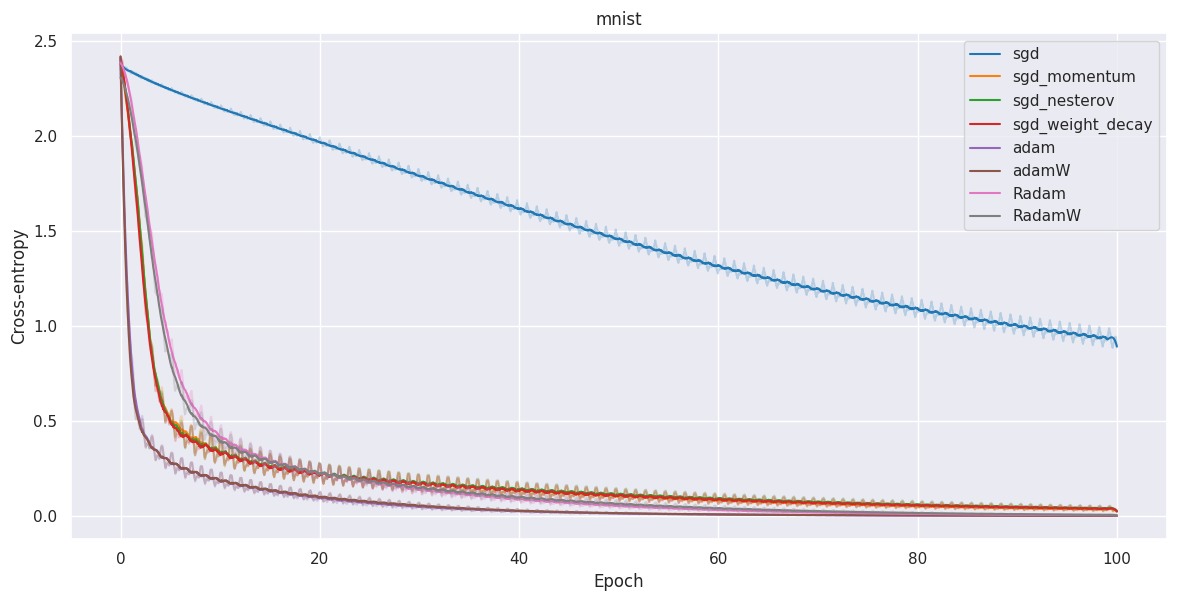
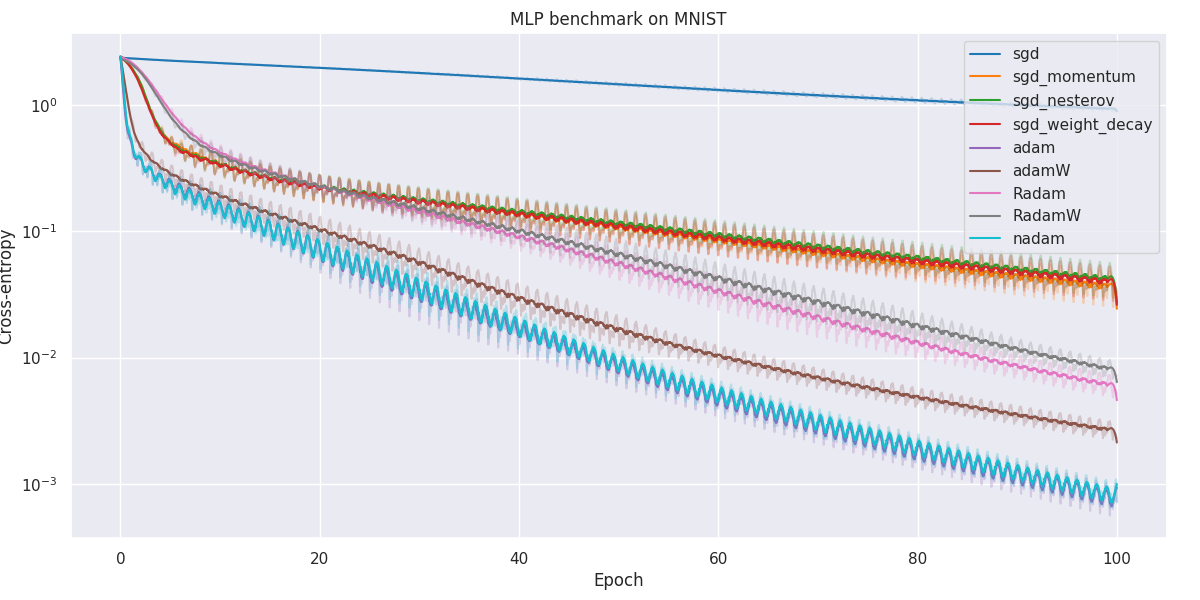
added nadam

diff --git a/misc.py b/misc.py
@@ -10,6 +10,8 @@ import torchvision
 from torch.utils import data
 from torchvision import transforms
 
+import optimizers
+
 
 def load_cifar(num_train=8192, num_val=512):
 	"""
@@ -42,6 +44,18 @@ def load_mnist(filename='data/mnist.npz', num_train=4096, num_val=256):
 	val_dataset = Dataset(x_valid, y_valid)
 
 	return train_dataset, val_dataset
+
+
+def task_to_optimizer(task:str) -> torch.optim.Optimizer:
+	"""
+	Takes a task as string and returns its respective optimizer class.
+	"""
+	if 'sgd' in task.lower():
+		return getattr(optimizers, 'SGD')
+	if 'adam' in task.lower():
+		return getattr(optimizers, 'Adam')
+	if 'rmsprop' in task.lower():
+		return getattr(optimizers, 'RMSProp')
 
 
 class AvgLoss():
@@ -137,11 +151,9 @@ def plot_loss(losses, val_losses, num_epochs):
 def plot_losses(losses, val_losses, labels, num_epochs, title, plot_val=False):
 	sns.set(style='darkgrid')
 	plt.figure(figsize=(12, 6))
-	colors = ['tab:blue', 'tab:orange', 'tab:green', 'tab:red', 'tab:purple', 'tab:brown', 'tab:pink', 'tab:gray', 'tab:olive', 'tab:cyan']
+	colors = ['tab:blue', 'tab:orange', 'tab:green', 'tab:red', 'tab:purple', 'tab:brown', 'tab:pink', 'tab:gray', 'tab:cyan', 'tab:olive']
 
 	for i in range(len(losses)):
-		smoothed_losses = savgol_filter(losses[i].losses, 61, 3)
-		smoothed_losses_err = savgol_filter(losses[i].losses, 21, 3)
 		plt.plot(np.linspace(0, num_epochs, num=len(losses[i])), smooth(losses[i].losses, 61), label=labels[i], alpha=1, c=colors[i])
 		plt.plot(np.linspace(0, num_epochs, num=len(losses[i])), smooth(losses[i].losses, 21), alpha=0.25, c=colors[i])
 		if plot_val:
@@ -150,7 +162,8 @@ def plot_losses(losses, val_losses, labels, num_epochs, title, plot_val=False):
 	plt.tight_layout(pad=2)
 	plt.xlabel('Epoch')
 	plt.ylabel('Cross-entropy')
-	plt.title(title)
+	plt.yscale('log')
+	plt.title('CNN benchmark on CIFAR-10' if title == 'cifar' else 'MLP benchmark on MNIST')
 	plt.legend(loc='upper right')
 	plt.savefig(f'loss_{title}.png')
 	plt.clf()

diff --git a/optimizers.py b/optimizers.py
@@ -72,23 +72,32 @@ class Adam(Optimizer):
                 group['v'] = []
                 group['t'] = 1
                 if nesterov:
-                    group['theta'] = []
+                    group['prev_grad'] = []
                 for param in group['params']:
                     group['m'].append(torch.zeros_like(param))
                     group['v'].append(torch.zeros_like(param))
                     if nesterov:
-                        group['theta'].append(param.data)
+                        group['prev_grad'].append(torch.zeros_like(param))
 
             for idx, param in enumerate(group['params']):
                 if l2_reg:
                     param.grad.data += l2_reg * param.data
+
+                if nesterov:
+                    grad = group['prev_grad'][idx]
+                else:
+                    grad = param.grad.data
+
                 m = group['m'][idx]
                 v = group['v'][idx]
                 t = group['t']
-                m = beta1 * m + (1 - beta1) * param.grad.data
-                v = beta2 * v + (1 - beta2) * param.grad.data**2
+                m = beta1 * m + (1 - beta1) * grad
+                v = beta2 * v + (1 - beta2) * grad**2
                 m_hat = m / (1 - beta1**t)
                 v_hat = v / (1 - beta2**t)
+
+                if nesterov:
+                    group['prev_grad'][idx] = param.grad.data
 
                 if rectified:
                     rho_inf = 2 / (1 - beta2) - 1

diff --git a/main.py b/main.py
@@ -12,8 +12,8 @@ if __name__ == '__main__':
 	parser = argparse.ArgumentParser()
 	parser.add_argument('-num_epochs', type=int, default=100)
 	parser.add_argument('-dataset', type=str, default='mnist')
-	parser.add_argument('-num_train', type=int, default=8192)
-	parser.add_argument('-num_val', type=int, default=1024)
+	parser.add_argument('-num_train', type=int, default=16384)
+	parser.add_argument('-num_val', type=int, default=2048)
 	parser.add_argument('-only_plot', type=bool, default=False)
 	args = parser.parse_args()
 
@@ -62,20 +62,23 @@ if __name__ == '__main__':
 			'rectified': True,
 			'weight_decay': 1e-4
 		},
+		'nadam': {
+			'lr': 1e-3,
+			'nesterov': True
+		},
 		'RMSProp': {
 			'lr': 1e-3,
 			'beta2': 0.999,
 		}
 	}
 
-	opt_tasks = ['sgd', 'sgd_momentum', 'sgd_nesterov', 'sgd_weight_decay', 'adam', 'adamW', 'Radam', 'RadamW']
+	opt_tasks = ['sgd', 'sgd_momentum', 'sgd_nesterov', 'sgd_weight_decay', 'adam', 'adamW', 'Radam', 'RadamW', 'nadam']
 	opt_losses, opt_val_losses, opt_labels = [], [], []
 
 	def do_stuff(opt):
 		print(f'\nTraining {opt} for {args.num_epochs} epochs...')
 		net = CNN() if args.dataset == 'cifar' else MLP()
-		opt_class = getattr(optimizers, 'SGD' if 'sgd' in opt else 'Adam')
-		optimizer = opt_class(
+		optimizer = misc.task_to_optimizer(opt)(
 			params=net.parameters(),
 			**optim_dict[opt]
 		)
